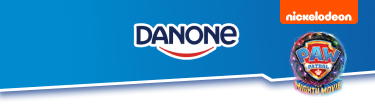
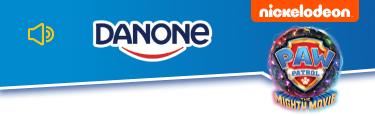
cambio de tamaño de assets

diff --git a/index.html b/index.html
@@ -4,9 +4,7 @@
     <meta charset="UTF-8">
     <meta http-equiv="X-UA-Compatible" content="IE=edge">
     <meta name="viewport" content="width=device-width, initial-scale=1.0">
-    <link rel="preconnect" href="https://fonts.googleapis.com">
-    <link rel="preconnect" href="https://fonts.gstatic.com" crossorigin>
-    <link href="https://fonts.googleapis.com/css2?family=Roboto:ital,wght@0,100;0,300;0,900;1,100;1,700;1,900&family=Work+Sans:ital,wght@0,100;0,200;0,300;0,400;0,500;0,600;0,700;0,800;0,900;1,100;1,200;1,300;1,400;1,500;1,600;1,700;1,800&display=swap" rel="stylesheet">
+    <link href="https://fonts.cdnfonts.com/css/thicker" rel="stylesheet">
     <link rel="stylesheet" href="./css/main.css">
     <title>Pow Patrol</title>
 </head>
@@ -21,12 +19,14 @@
         <div class="img-envase">
             <img src="./assets/rayos-img.png" alt="">
         </div>
-        <div>
+        <div class="traslate-50">
+     
             <img src="./assets/texto-1.png" alt="">
-        </div>
+   
         <div>
             <a class="button" href="#">Siguiente</a>
         </div>
+    </div>
     </section>
     <footer>
         <img src="./assets/footer.png" alt="">

diff --git a/animacion.html b/animacion.html
@@ -1,0 +1,26 @@
+<!DOCTYPE html>
+<html>
+<head>
+    <meta charset="utf-8">
+    <meta name="viewport" content="width=device-width, initial-scale=1">
+    <script src="https://cdnjs.cloudflare.com/ajax/libs/bodymovin/5.9.6/lottie.min.js"></script>
+    <title>Animación Pow Patrol</title>  
+</head>
+<body class="fondo-m">
+
+    <div id="animation"></div>
+    <script>
+        var animationContainer = document.getElementById('animation');
+        var animationData = '../assets/animations/json/animacion-1.json'; // Ruta al archivo JSON de la animación
+
+        // Carga y reproduce la animación
+        var animation = lottie.loadAnimation({
+            container: animationContainer,
+            renderer: 'svg',
+            loop: true,
+            autoplay: true,
+            path: animationData
+        });
+    </script>
+</body>
+</html>

diff --git a/css/main.scss b/css/main.scss
@@ -46,7 +46,6 @@
   
   section {
     max-width: 100%;
-    padding: 20px;
   }
   
   .flex-landing {
@@ -66,7 +65,7 @@
   }
   
   .img-envase {
-    width: 80%;
+    width: 98%;
     max-width: 400px;
     margin: 20px auto;
   
@@ -85,15 +84,13 @@
   border-radius: 49px;
   color: #FFF;
   text-decoration: none;
-
   position: relative;
   color: #FFF;
-text-align: center;
-
-font-size: 18px;
-font-style: normal;
-font-weight: 900;
-line-height: normal;
+  text-align: center;
+  font-size: 18px;
+  font-style: normal;
+  font-weight: 900;
+  line-height: normal;
 }
 
 .button::before {
@@ -105,6 +102,10 @@ line-height: normal;
   bottom: -4px; /* Ajusta la posición del segundo borde */
   border: 3px solid #7D2082; /* Borde interior */
   border-radius: 49px;
+}
+
+.traslate-50{
+  transform: translateY(-35%)
 }
   
   

diff --git a/css/main.css b/css/main.css
@@ -45,7 +45,6 @@ footer img {
 
 section {
   max-width: 100%;
-  padding: 20px;
 }
 
 .flex-landing {
@@ -64,7 +63,7 @@ img {
 }
 
 .img-envase {
-  width: 80%;
+  width: 98%;
   max-width: 400px;
   margin: 20px auto;
 }
@@ -100,4 +99,8 @@ img {
   bottom: -4px; /* Ajusta la posición del segundo borde */
   border: 3px solid #7D2082; /* Borde interior */
   border-radius: 49px;
+}
+
+.traslate-50 {
+  transform: translateY(-35%);
 }/*# sourceMappingURL=main.css.map */
